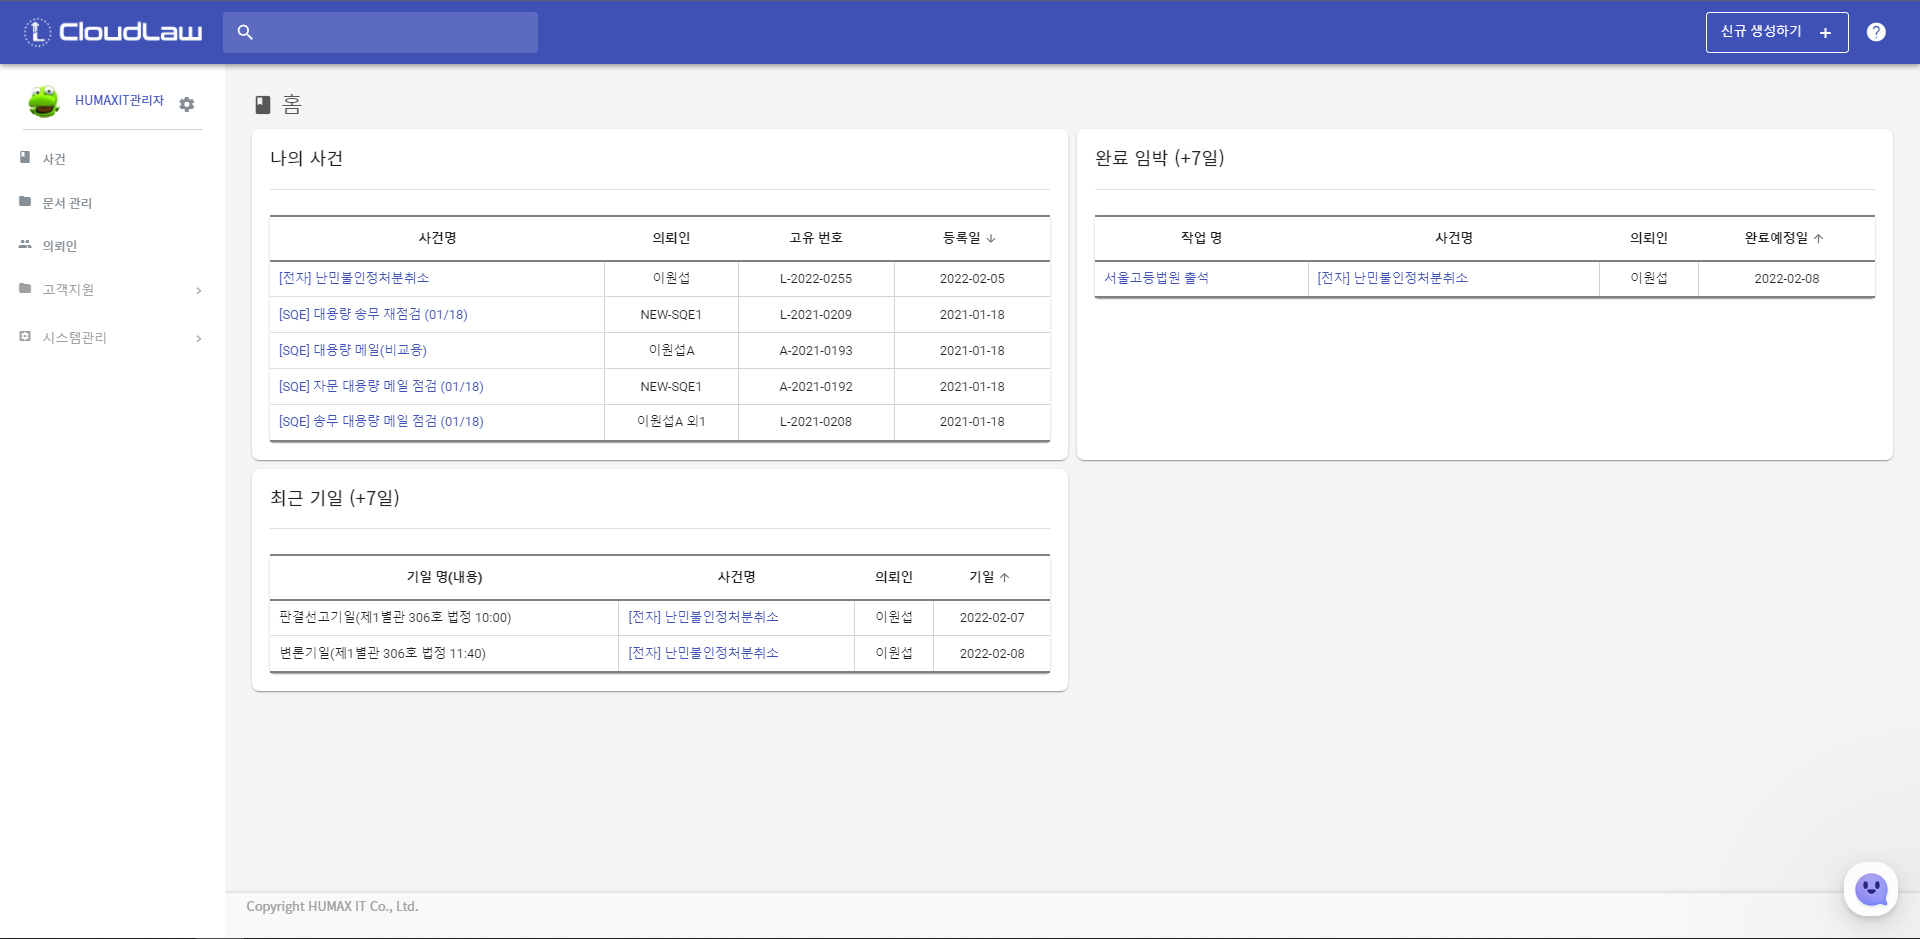
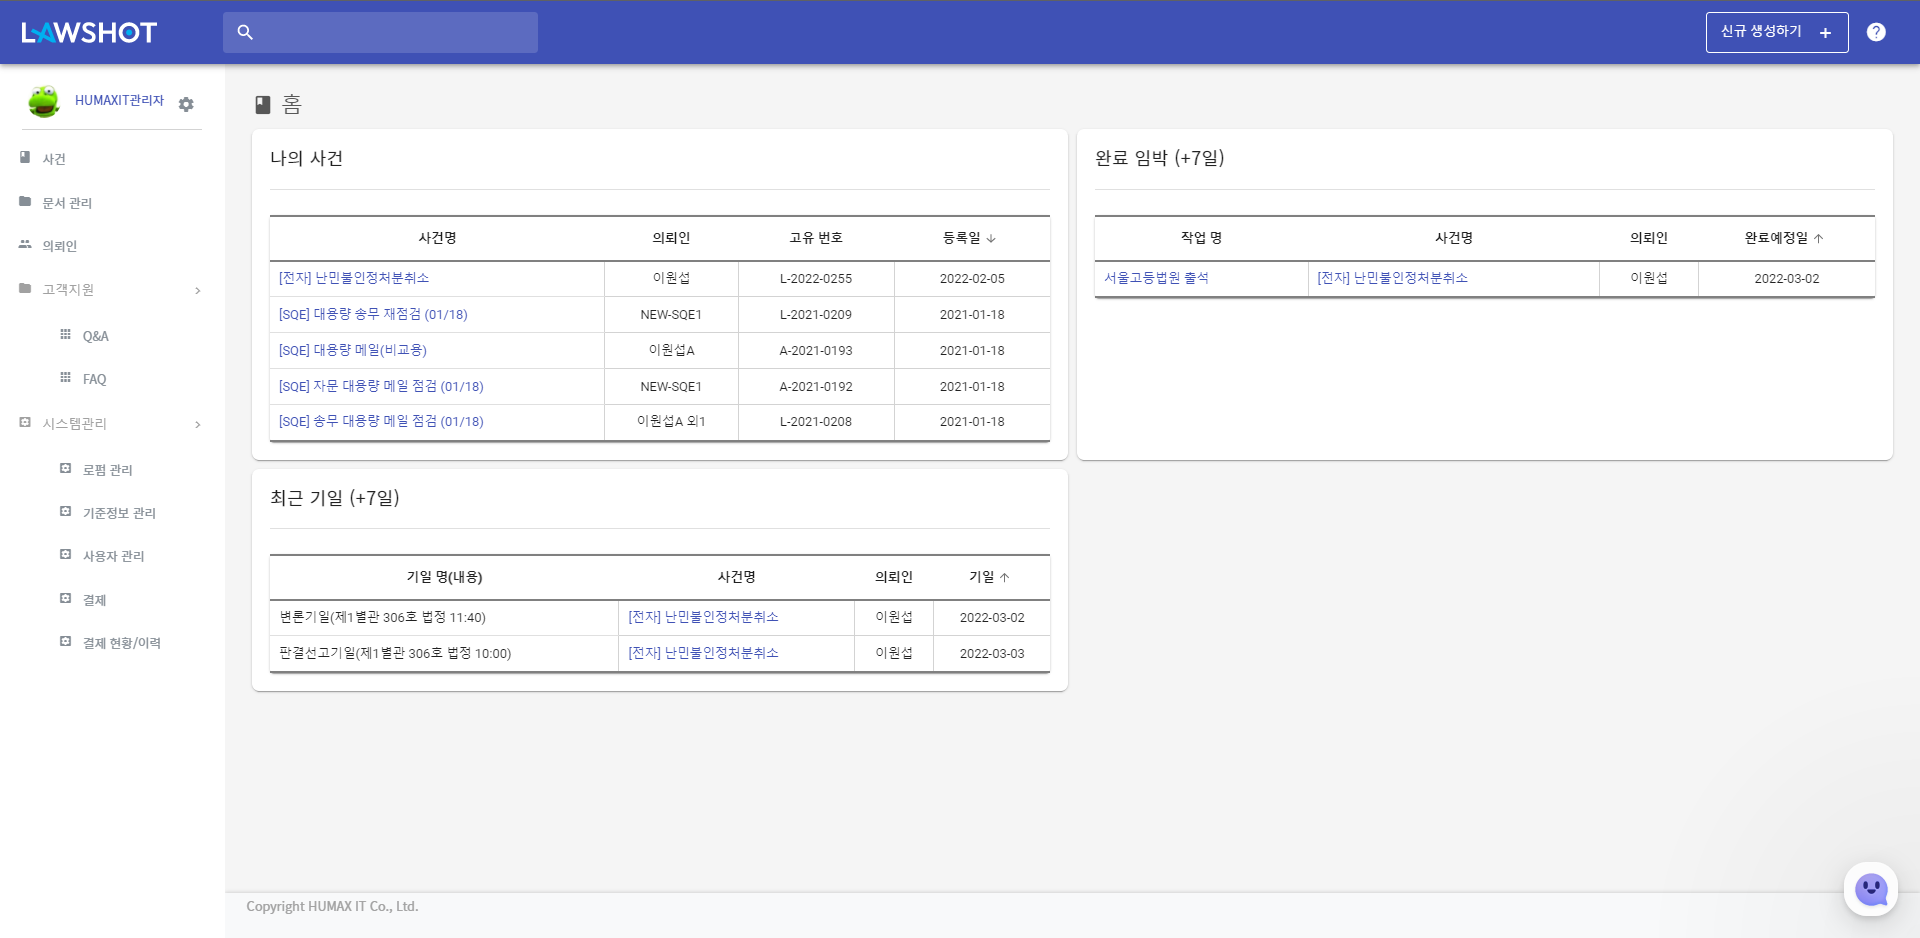
[docs] CloudLaw -> LawShot 워딩 변경 LawShot 스크린샷 최신화

diff --git a/index.html b/index.html
@@ -124,13 +124,13 @@
           <h2 class="mb-5">Project</h2>
           <div class="d-flex flex-column flex-md-row justify-content-between mb-5">
             <div class="flex-grow-1">
-              <h3 class="text-none mb-0">법무법인 관리 시스템 "CloudLaw" 개발/운영</h3>
+              <h3 class="text-none mb-0">법무법인 관리 시스템 "LawShot" 개발/운영</h3>
               <div class="text-none subheading mb-3">HumaxIT & Humax Holdings</div>
               <div style="margin-bottom: 20px">
                 <div style="font-size: 20px; display: flex; align-items: center">
                   <i style="margin-right: 10px" class="far fa-comment-dots"></i>Summary
                 </div>
-                <div>'CloudLaw'는 법무법인의 업무를 시스템화하여 업무의 효율성을 높이기 위한 서비스입니다.</div>
+                <div>'LawShot'은 법무법인의 업무를 시스템화하여 업무의 효율성을 높이기 위한 서비스입니다.</div>
               </div>
               <div style="margin-bottom: 20px">
                 <div style="font-size: 20px; display: flex; align-items: center">
@@ -171,14 +171,35 @@
                   <i style="margin-right: 10px" class="fas fa-camera"></i>Screenshot
                 </div>
                 <div>
+                  <a data-gallery="cloudlaw" href="assets/img/project/cloudlaw_login.png">
+                    <img width="250px" src="assets/img/project/cloudlaw_login.png" />
+                  </a>
+                  <a data-gallery="cloudlaw" href="assets/img/project/cloudlaw_signup_1.png">
+                    <img width="250px" src="assets/img/project/cloudlaw_signup_1.png" />
+                  </a>
+                  <a data-gallery="cloudlaw" href="assets/img/project/cloudlaw_signup_2.png">
+                    <img width="250px" src="assets/img/project/cloudlaw_signup_2.png" />
+                  </a>
+                  <a data-gallery="cloudlaw" href="assets/img/project/cloudlaw_signup_3.png">
+                    <img width="250px" src="assets/img/project/cloudlaw_signup_3.png" />
+                  </a>
+                  <a data-gallery="cloudlaw" href="assets/img/project/cloudlaw_manual.png">
+                    <img width="250px" src="assets/img/project/cloudlaw_manual.png" />
+                  </a>
                   <a data-gallery="cloudlaw" href="assets/img/project/cloudlaw_home.png">
                     <img width="250px" src="assets/img/project/cloudlaw_home.png" />
                   </a>
-                  <a data-gallery="cloudlaw" href="assets/img/project/cloudlaw_case.png">
-                    <img width="250px" src="assets/img/project/cloudlaw_case.png" />
+                  <a data-gallery="cloudlaw" href="assets/img/project/cloudlaw_case_1.png">
+                    <img width="250px" src="assets/img/project/cloudlaw_case_1.png" />
                   </a>
-                  <a data-gallery="cloudlaw" href="assets/img/project/cloudlaw_search.png">
-                    <img width="250px" src="assets/img/project/cloudlaw_search.png" />
+                  <a data-gallery="cloudlaw" href="assets/img/project/cloudlaw_case_2.png">
+                    <img width="250px" src="assets/img/project/cloudlaw_case_2.png" />
+                  </a>
+                  <a data-gallery="cloudlaw" href="assets/img/project/cloudlaw_case_3.png">
+                    <img width="250px" src="assets/img/project/cloudlaw_case_3.png" />
+                  </a>
+                  <a data-gallery="cloudlaw" href="assets/img/project/cloudlaw_es.png">
+                    <img width="250px" src="assets/img/project/cloudlaw_es.png" />
                   </a>
                 </div>
               </div>
